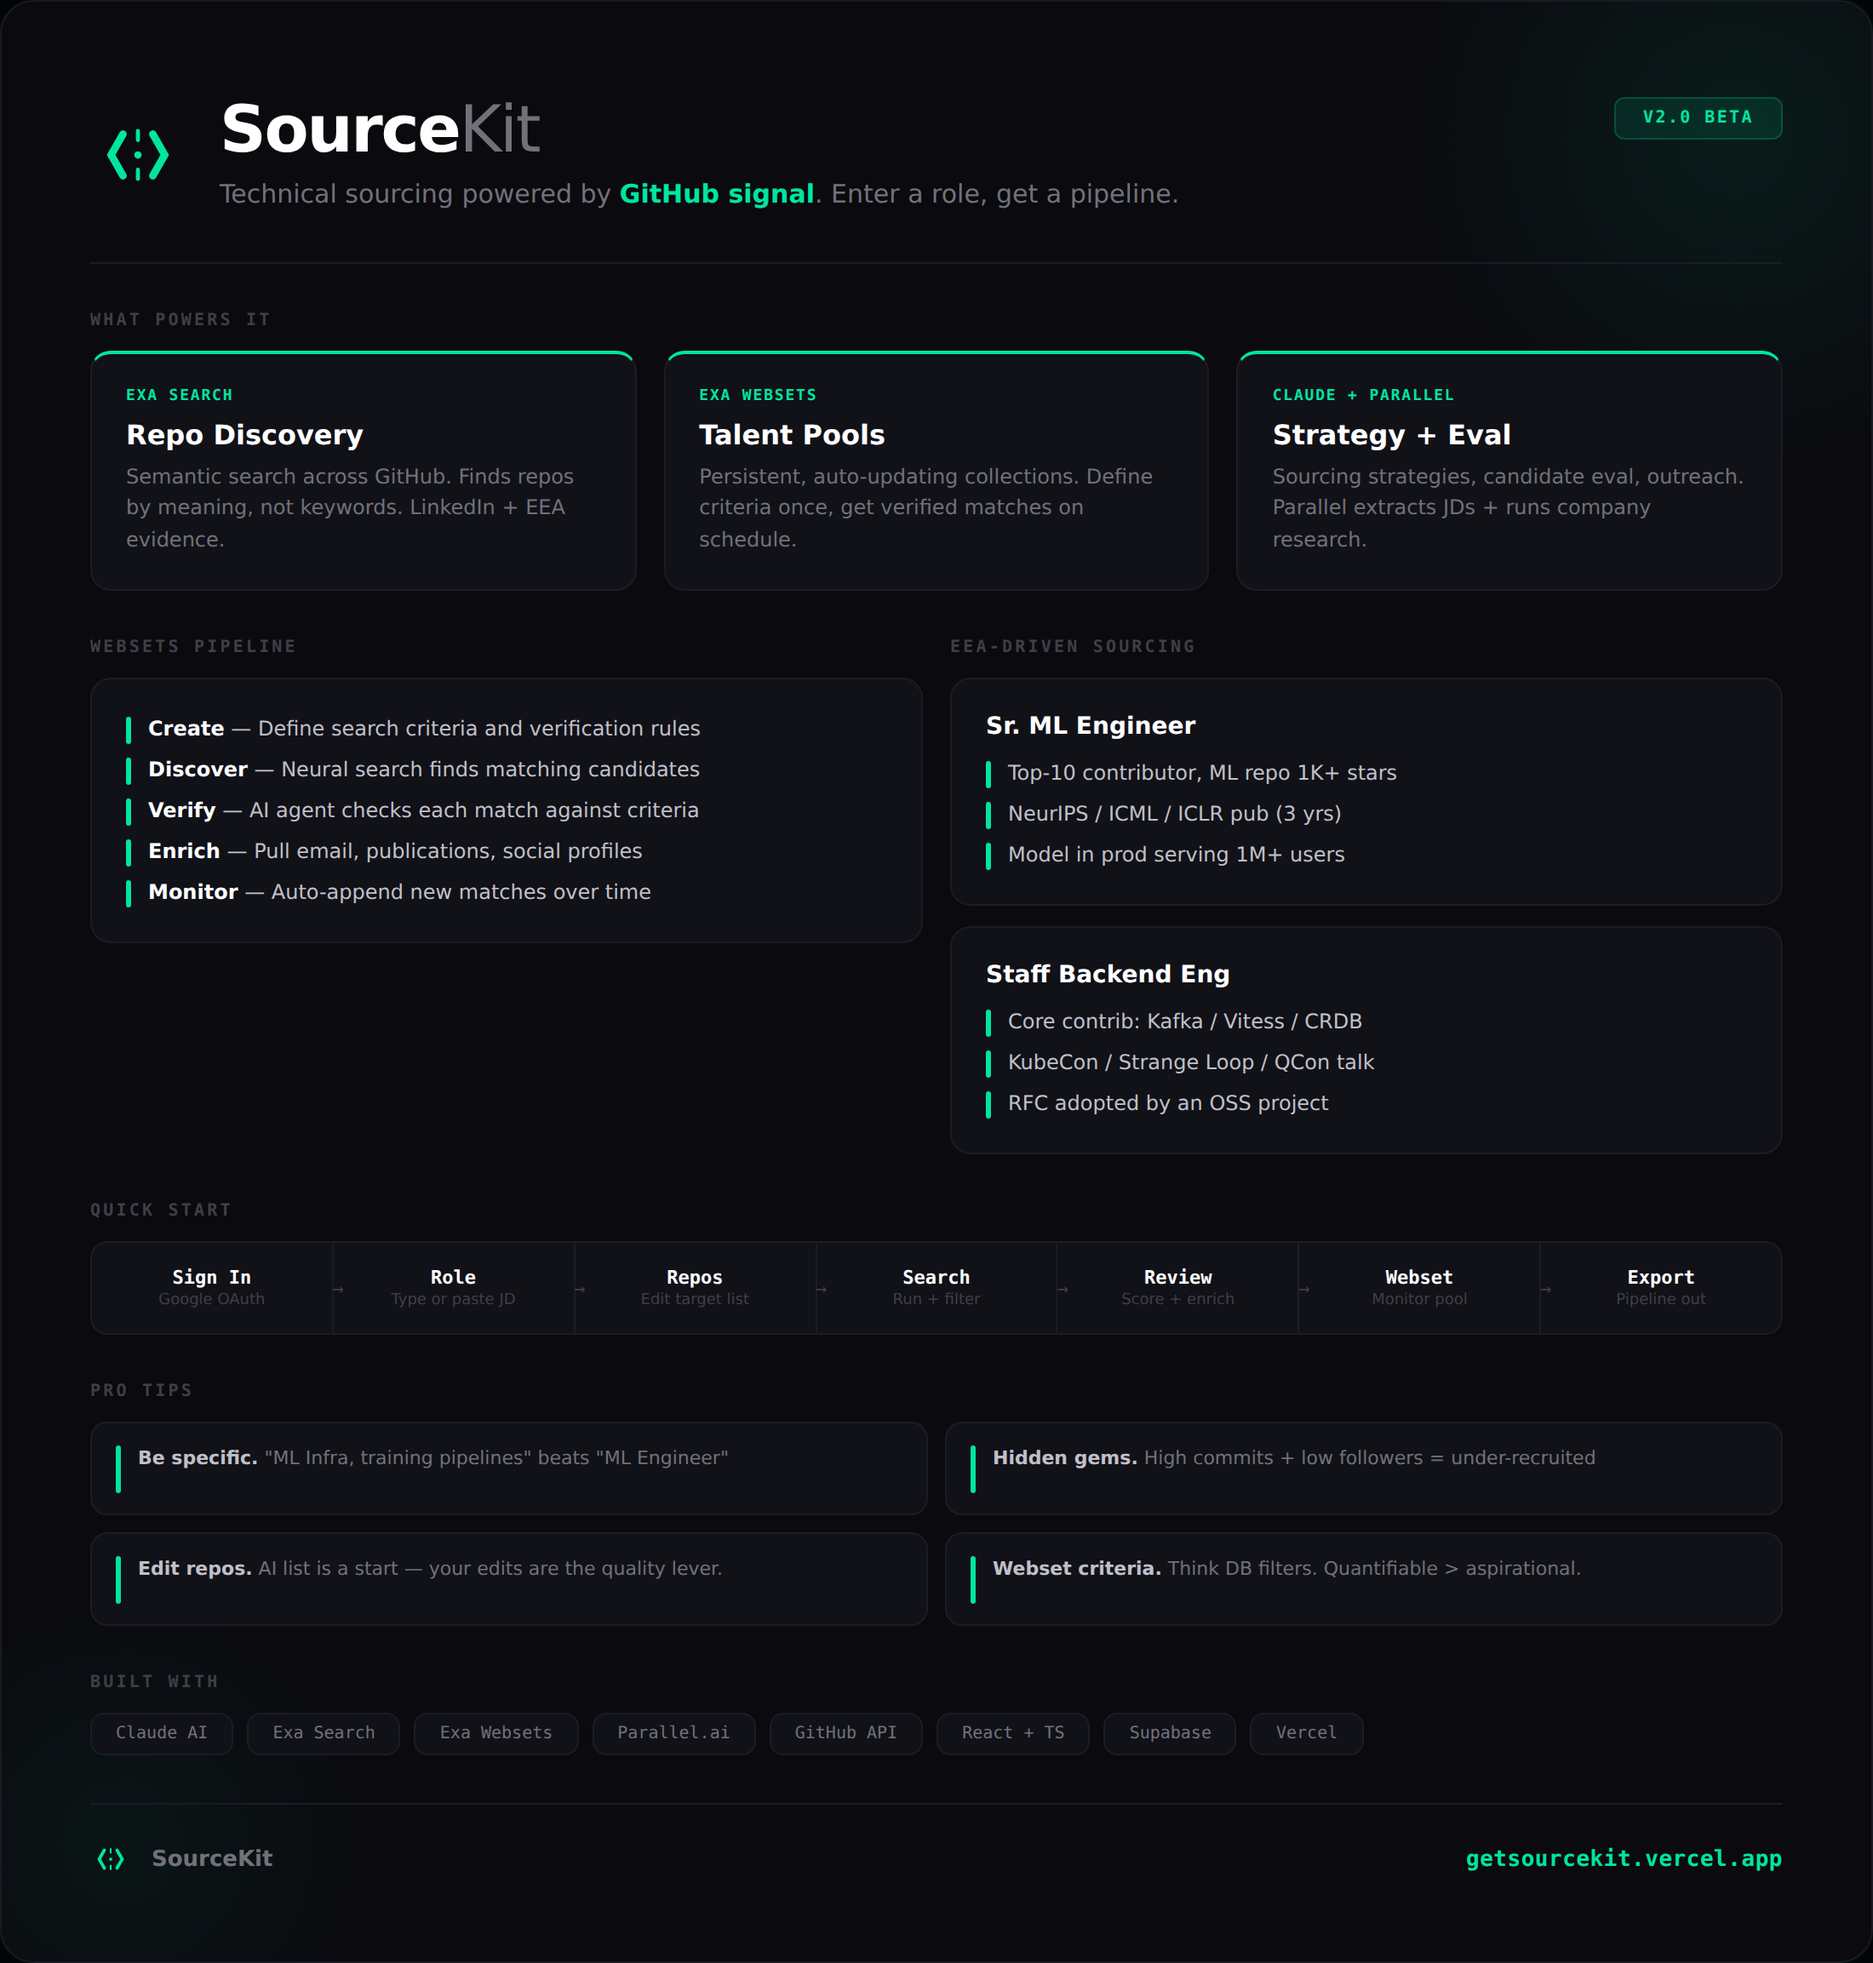
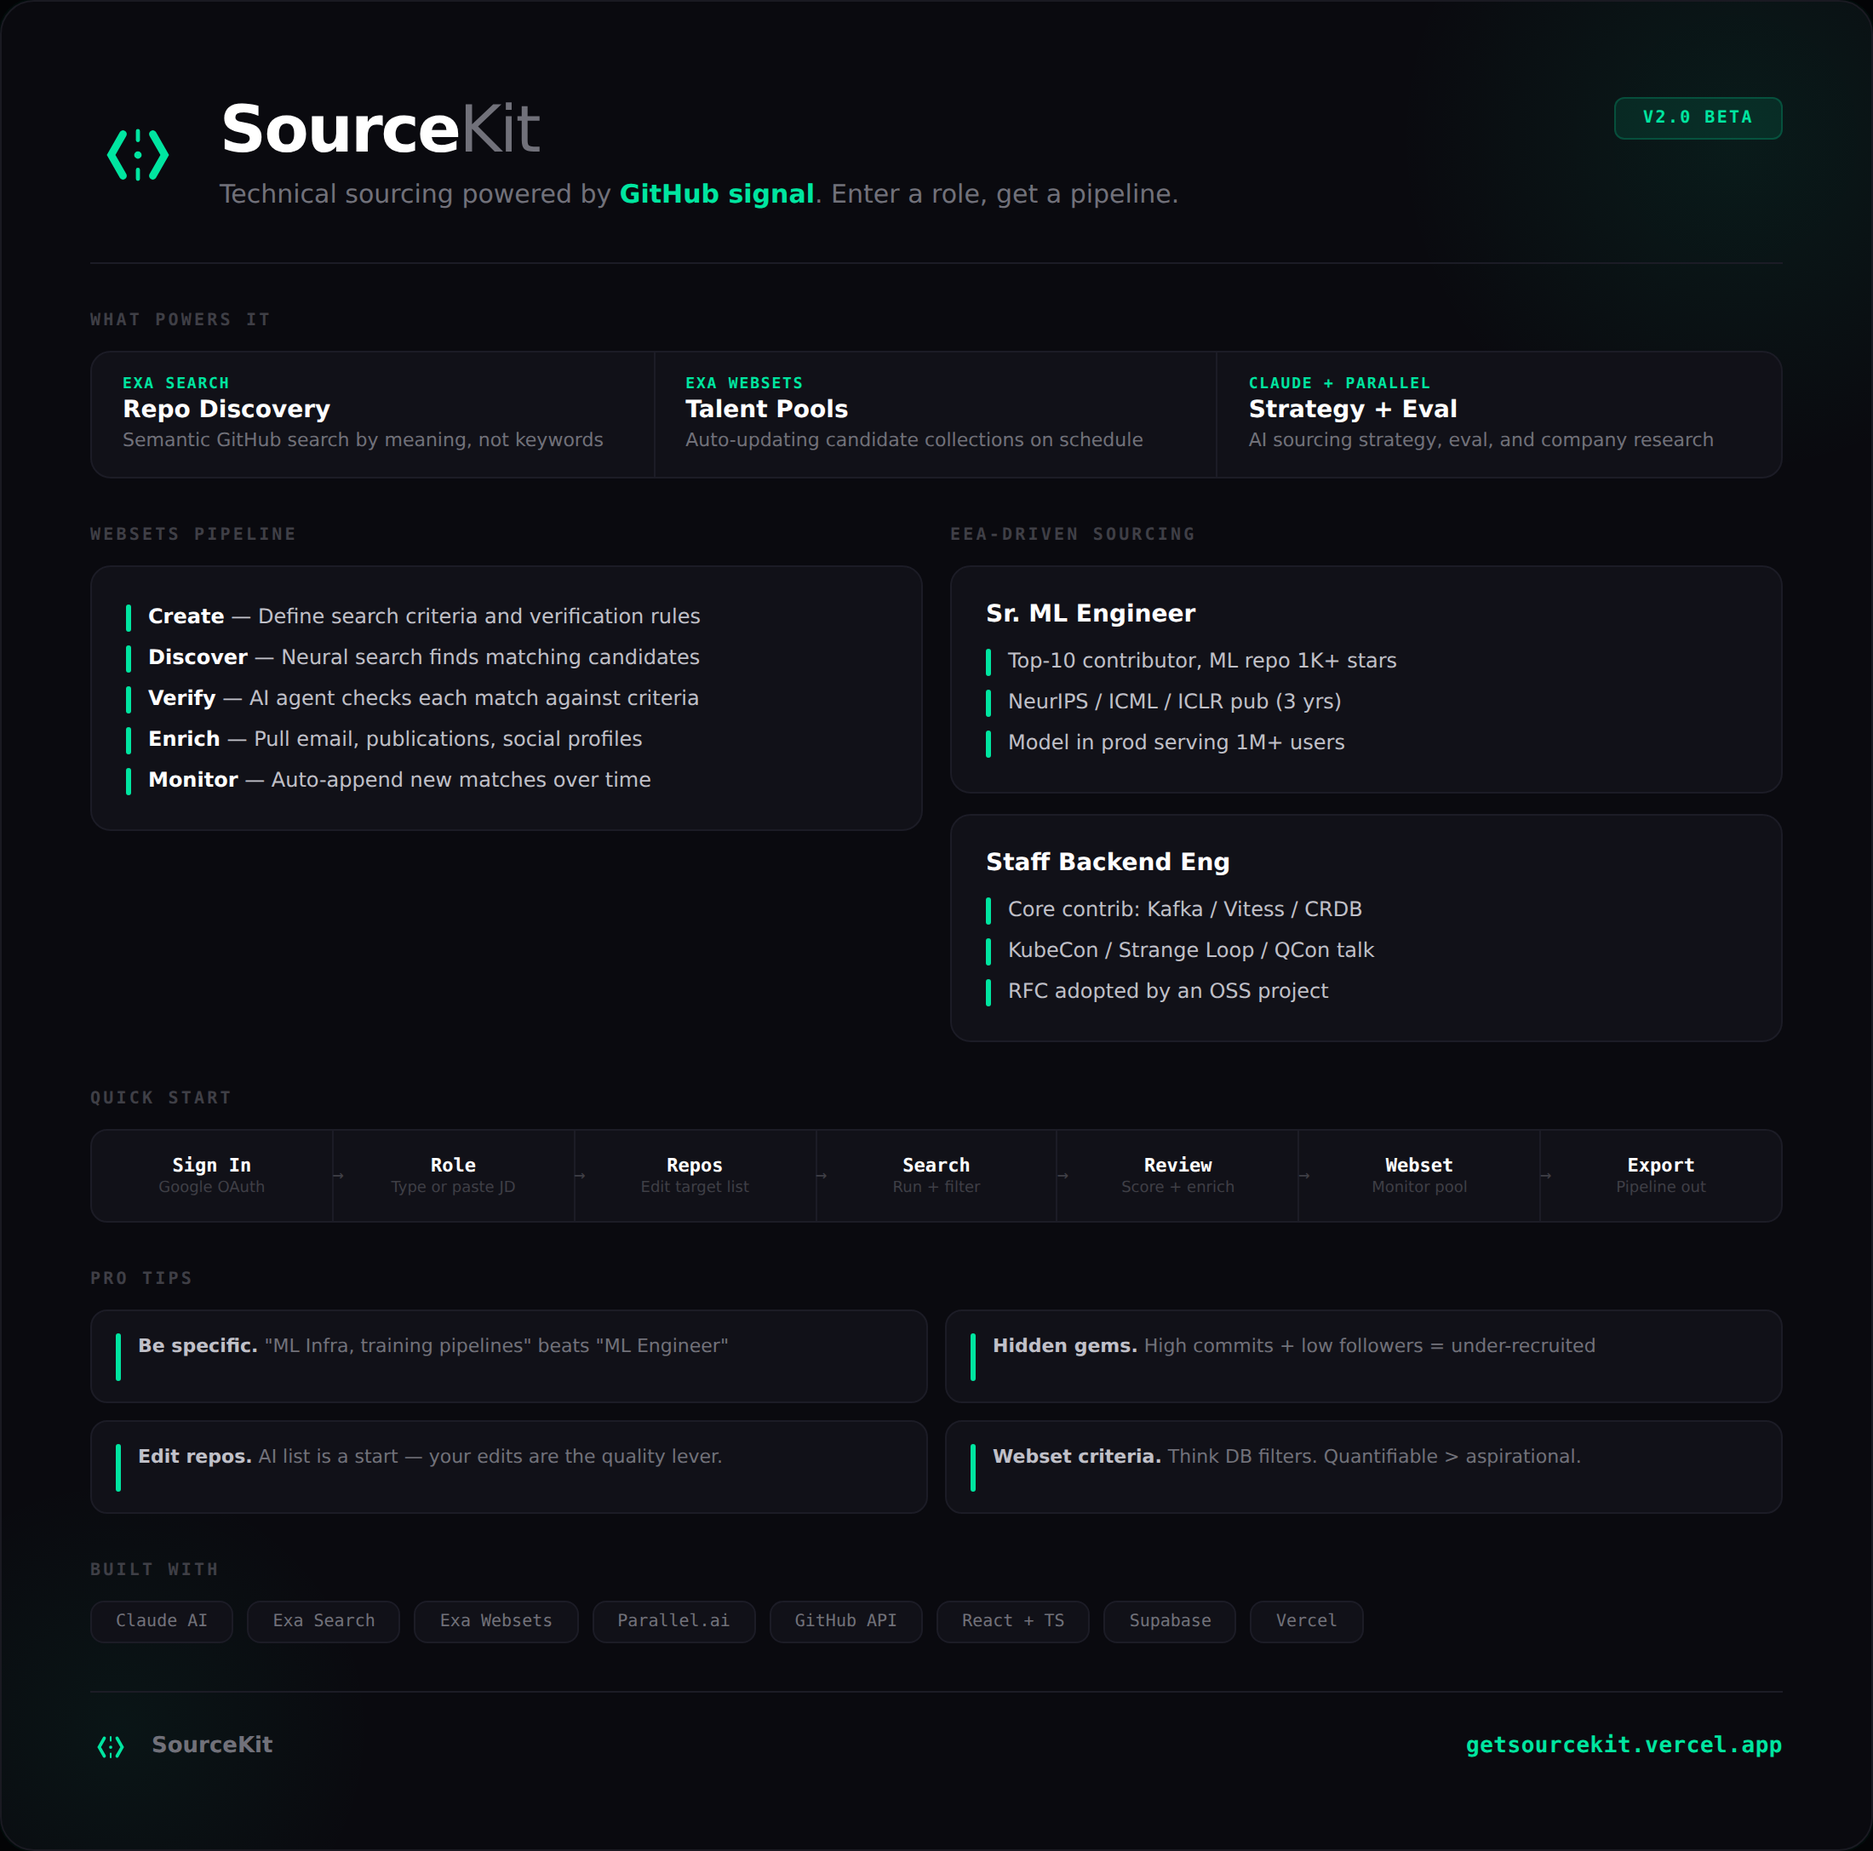
Compact power cards into single-row strip
Replaced 3 tall accent-topped cards with a unified row strip using
internal dividers. Trimmed descriptions to one line each.

https://claude.ai/code/session_012pKH1C4vBPCybCoQJLFR8g

diff --git a/brand/poster.html b/brand/poster.html
@@ -108,6 +108,25 @@
   .cols{display:grid;grid-template-columns:1fr 1fr;gap:16px}
   .cols-3{display:grid;grid-template-columns:repeat(3,1fr);gap:16px}
 
+  /* ── POWER ROW (compact 1-line cards) ── */
+  .power-row{
+    display:grid;grid-template-columns:repeat(3,1fr);gap:0;
+    background:var(--card);border:1px solid var(--border);border-radius:12px;
+    overflow:hidden;
+  }
+  .power-chip{
+    padding:14px 18px;
+    border-right:1px solid var(--border);
+    display:flex;flex-direction:column;gap:2px;
+  }
+  .power-chip:last-child{border-right:none}
+  .power-chip-label{
+    font-family:var(--mono);font-size:9px;font-weight:700;
+    letter-spacing:.1em;text-transform:uppercase;color:var(--accent);
+  }
+  .power-chip-title{font-size:14px;font-weight:700;color:var(--fg)}
+  .power-chip-desc{font-size:11px;color:var(--fg3);line-height:1.4}
+
   /* ── FLOW STRIPS ── */
   .flow{display:flex;gap:0}
   .flow-chip{
@@ -216,21 +235,21 @@
   <!-- ═══════════ WHAT POWERS IT ═══════════ -->
   <div>
     <div class="label">What Powers It</div>
-    <div class="cols-3">
-      <div class="card card-accent">
-        <div class="card-label">Exa Search</div>
-        <div class="card-title">Repo Discovery</div>
-        <div class="card-desc">Semantic search across GitHub. Finds repos by meaning, not keywords. LinkedIn + EEA evidence.</div>
+    <div class="power-row">
+      <div class="power-chip">
+        <span class="power-chip-label">Exa Search</span>
+        <span class="power-chip-title">Repo Discovery</span>
+        <span class="power-chip-desc">Semantic GitHub search by meaning, not keywords</span>
       </div>
-      <div class="card card-accent">
-        <div class="card-label">Exa Websets</div>
-        <div class="card-title">Talent Pools</div>
-        <div class="card-desc">Persistent, auto-updating collections. Define criteria once, get verified matches on schedule.</div>
+      <div class="power-chip">
+        <span class="power-chip-label">Exa Websets</span>
+        <span class="power-chip-title">Talent Pools</span>
+        <span class="power-chip-desc">Auto-updating candidate collections on schedule</span>
       </div>
-      <div class="card card-accent">
-        <div class="card-label">Claude + Parallel</div>
-        <div class="card-title">Strategy + Eval</div>
-        <div class="card-desc">Sourcing strategies, candidate eval, outreach. Parallel extracts JDs + runs company research.</div>
+      <div class="power-chip">
+        <span class="power-chip-label">Claude + Parallel</span>
+        <span class="power-chip-title">Strategy + Eval</span>
+        <span class="power-chip-desc">AI sourcing strategy, eval, and company research</span>
       </div>
     </div>
   </div>

diff --git a/public/poster.html b/public/poster.html
@@ -108,6 +108,25 @@
   .cols{display:grid;grid-template-columns:1fr 1fr;gap:16px}
   .cols-3{display:grid;grid-template-columns:repeat(3,1fr);gap:16px}
 
+  /* ── POWER ROW (compact 1-line cards) ── */
+  .power-row{
+    display:grid;grid-template-columns:repeat(3,1fr);gap:0;
+    background:var(--card);border:1px solid var(--border);border-radius:12px;
+    overflow:hidden;
+  }
+  .power-chip{
+    padding:14px 18px;
+    border-right:1px solid var(--border);
+    display:flex;flex-direction:column;gap:2px;
+  }
+  .power-chip:last-child{border-right:none}
+  .power-chip-label{
+    font-family:var(--mono);font-size:9px;font-weight:700;
+    letter-spacing:.1em;text-transform:uppercase;color:var(--accent);
+  }
+  .power-chip-title{font-size:14px;font-weight:700;color:var(--fg)}
+  .power-chip-desc{font-size:11px;color:var(--fg3);line-height:1.4}
+
   /* ── FLOW STRIPS ── */
   .flow{display:flex;gap:0}
   .flow-chip{
@@ -216,21 +235,21 @@
   <!-- ═══════════ WHAT POWERS IT ═══════════ -->
   <div>
     <div class="label">What Powers It</div>
-    <div class="cols-3">
-      <div class="card card-accent">
-        <div class="card-label">Exa Search</div>
-        <div class="card-title">Repo Discovery</div>
-        <div class="card-desc">Semantic search across GitHub. Finds repos by meaning, not keywords. LinkedIn + EEA evidence.</div>
+    <div class="power-row">
+      <div class="power-chip">
+        <span class="power-chip-label">Exa Search</span>
+        <span class="power-chip-title">Repo Discovery</span>
+        <span class="power-chip-desc">Semantic GitHub search by meaning, not keywords</span>
       </div>
-      <div class="card card-accent">
-        <div class="card-label">Exa Websets</div>
-        <div class="card-title">Talent Pools</div>
-        <div class="card-desc">Persistent, auto-updating collections. Define criteria once, get verified matches on schedule.</div>
+      <div class="power-chip">
+        <span class="power-chip-label">Exa Websets</span>
+        <span class="power-chip-title">Talent Pools</span>
+        <span class="power-chip-desc">Auto-updating candidate collections on schedule</span>
       </div>
-      <div class="card card-accent">
-        <div class="card-label">Claude + Parallel</div>
-        <div class="card-title">Strategy + Eval</div>
-        <div class="card-desc">Sourcing strategies, candidate eval, outreach. Parallel extracts JDs + runs company research.</div>
+      <div class="power-chip">
+        <span class="power-chip-label">Claude + Parallel</span>
+        <span class="power-chip-title">Strategy + Eval</span>
+        <span class="power-chip-desc">AI sourcing strategy, eval, and company research</span>
       </div>
     </div>
   </div>
